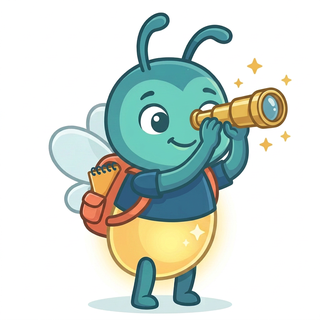
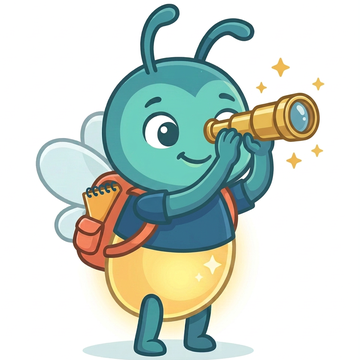
Acordeón: los 12 Lumi (8 grados y 4 materias) en un círculo más grande
Claude-Session: https://claude.ai/code/session_01XPFv5faf7VKEa3fGEf4bvm

diff --git a/lumi.css b/lumi.css
@@ -156,15 +156,15 @@ details li{margin:.25rem 0}
 details.acordeon{margin:0;padding:0;border:2px solid var(--borde);border-radius:22px;background:#fff;scroll-margin-top:96px;
   transition:border-color .2s, box-shadow .2s}
 details.acordeon[open]{border-color:var(--pet);box-shadow:0 6px 0 rgba(25,79,90,.12)}
-details.acordeon > summary{display:flex;align-items:center;gap:1rem;min-height:104px;padding:.7rem 1.1rem;border-radius:20px;
+details.acordeon > summary{display:flex;align-items:center;gap:1.1rem;min-height:140px;padding:.7rem 1.1rem;border-radius:20px;
   background:var(--cie);cursor:pointer}
 details.acordeon > summary::before{content:none}
 details.acordeon > summary:hover{background:#d9eff1}
 details.acordeon[open] > summary{border-radius:20px 20px 0 0;border-bottom:2px solid var(--borde)}
-.lumi-anillo{flex:0 0 auto;width:88px;height:88px;border-radius:50%;background:#fff;display:grid;place-items:center;overflow:hidden;
+.lumi-anillo{flex:0 0 auto;width:124px;height:124px;border-radius:50%;background:#fff;display:grid;place-items:center;overflow:hidden;
   border:3px solid #fff;box-shadow:0 0 0 4px var(--anillo, var(--men))}
 .lumi-mini{display:block;position:relative;width:100%;height:100%}
-.lumi-mini img{position:absolute;inset:6%;width:88%;height:88%;max-width:none;object-fit:contain;display:block;transition:transform .25s}
+.lumi-mini img{position:absolute;inset:3%;width:94%;height:94%;max-width:none;object-fit:contain;display:block;transition:transform .25s}
 details.acordeon > summary:hover .lumi-mini img{transform:translateY(-3px) rotate(-3deg)}
 details.acordeon[open] .lumi-mini img{transform:scale(1.06)}
 .acordeon-texto{display:flex;flex-direction:column;gap:.15rem;flex:1;min-width:0}
@@ -177,8 +177,8 @@ details.acordeon[open] .acordeon-flecha::before{transform:translateY(3px) rotate
 .acordeon-cuerpo{padding:.4rem 1.1rem 1.1rem}
 .acordeon-cuerpo > .sub:first-child{margin-top:.8rem}
 @media (max-width:760px){
-  details.acordeon > summary{min-height:88px;gap:.7rem;padding:.6rem .8rem}
-  .lumi-anillo{width:70px;height:70px}
+  details.acordeon > summary{min-height:108px;gap:.7rem;padding:.6rem .8rem}
+  .lumi-anillo{width:92px;height:92px}
   .acordeon-flecha{width:38px;height:38px}
   .acordeon-cuerpo{padding:.3rem .8rem .9rem}
   details.acordeon{scroll-margin-top:130px}

diff --git a/materias-es.html b/materias-es.html
@@ -9,7 +9,7 @@
 <link rel="icon" href="favicon.svg" type="image/svg+xml">
 <link rel="icon" href="favicon.ico" sizes="any">
 <link rel="apple-touch-icon" href="apple-touch-icon.png">
-<link rel="stylesheet" href="lumi.css?v=9">
+<link rel="stylesheet" href="lumi.css?v=11">
 </head>
 <body data-pagina="materias">
 <a class="saltar" href="#contenido">Saltar al contenido</a>

diff --git a/grados-es.html b/grados-es.html
@@ -9,7 +9,7 @@
 <link rel="icon" href="favicon.svg" type="image/svg+xml">
 <link rel="icon" href="favicon.ico" sizes="any">
 <link rel="apple-touch-icon" href="apple-touch-icon.png">
-<link rel="stylesheet" href="lumi.css?v=9">
+<link rel="stylesheet" href="lumi.css?v=11">
 </head>
 <body data-pagina="grados">
 <a class="saltar" href="#contenido">Saltar al contenido</a>

diff --git a/materias.html b/materias.html
@@ -9,7 +9,7 @@
 <link rel="icon" href="favicon.svg" type="image/svg+xml">
 <link rel="icon" href="favicon.ico" sizes="any">
 <link rel="apple-touch-icon" href="apple-touch-icon.png">
-<link rel="stylesheet" href="lumi.css?v=9">
+<link rel="stylesheet" href="lumi.css?v=11">
 </head>
 <body data-pagina="materias">
 <a class="saltar" href="#contenido">Skip to content</a>

diff --git a/grados.html b/grados.html
@@ -9,7 +9,7 @@
 <link rel="icon" href="favicon.svg" type="image/svg+xml">
 <link rel="icon" href="favicon.ico" sizes="any">
 <link rel="apple-touch-icon" href="apple-touch-icon.png">
-<link rel="stylesheet" href="lumi.css?v=9">
+<link rel="stylesheet" href="lumi.css?v=11">
 </head>
 <body data-pagina="grados">
 <a class="saltar" href="#contenido">Skip to content</a>
